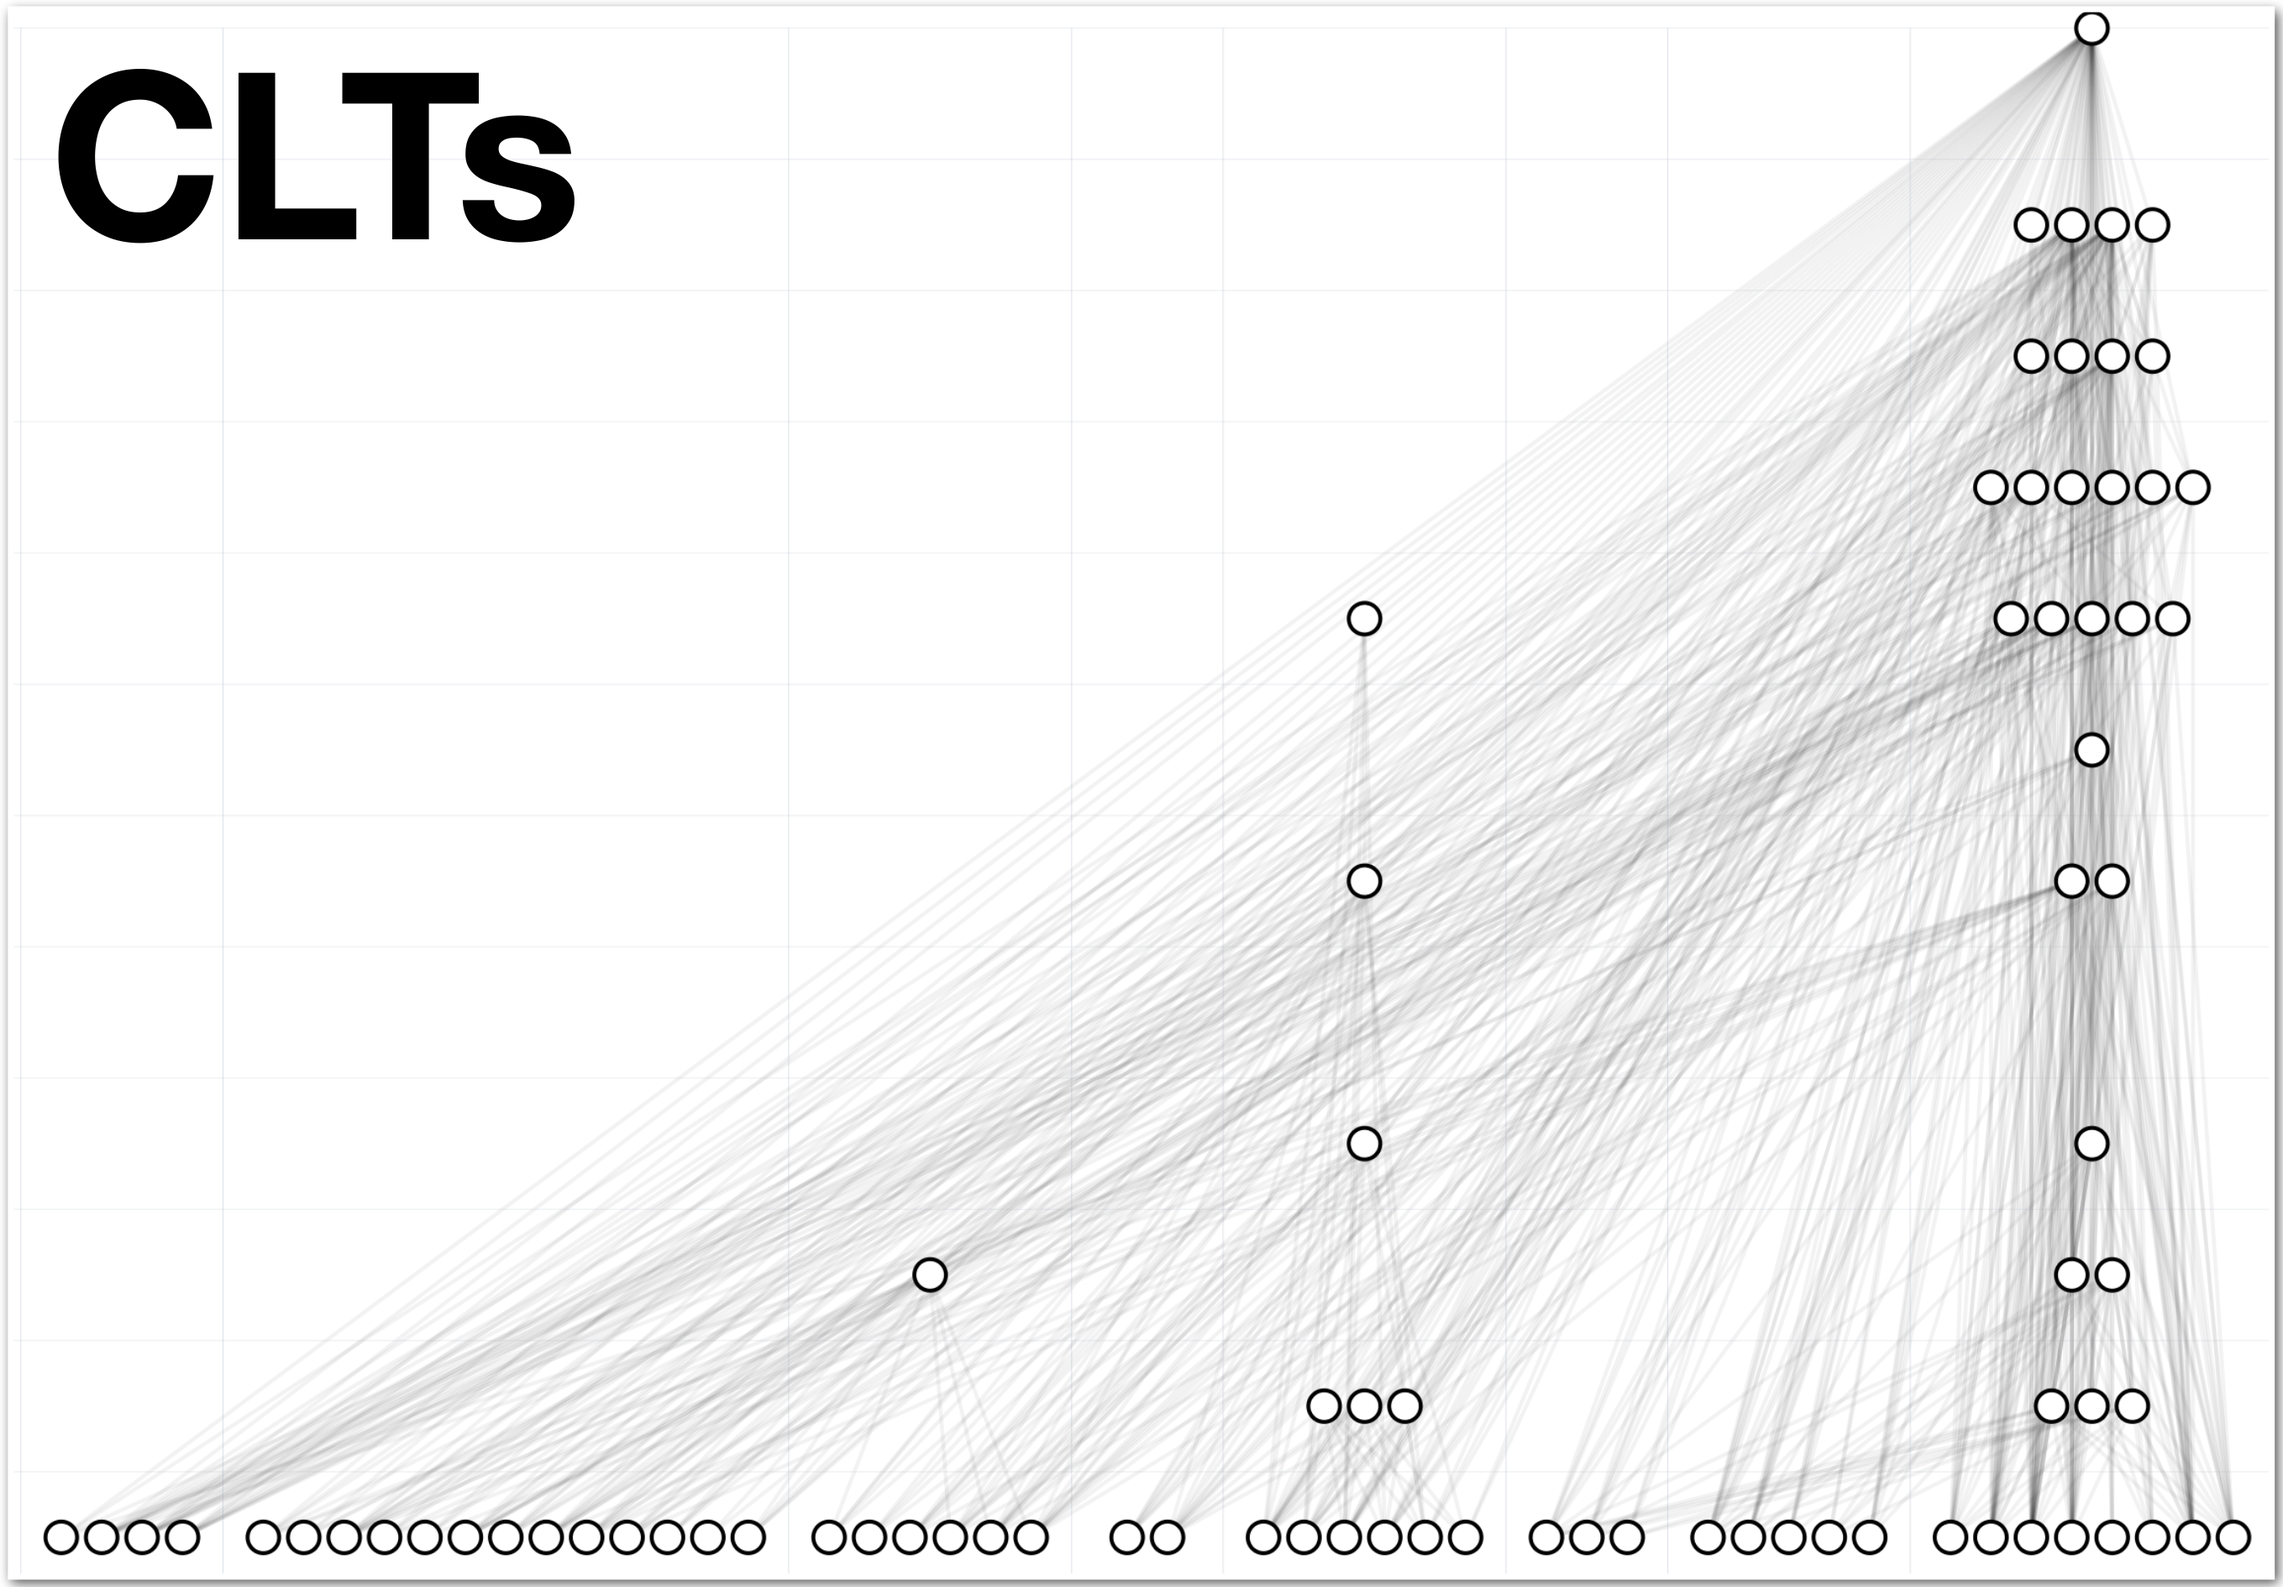
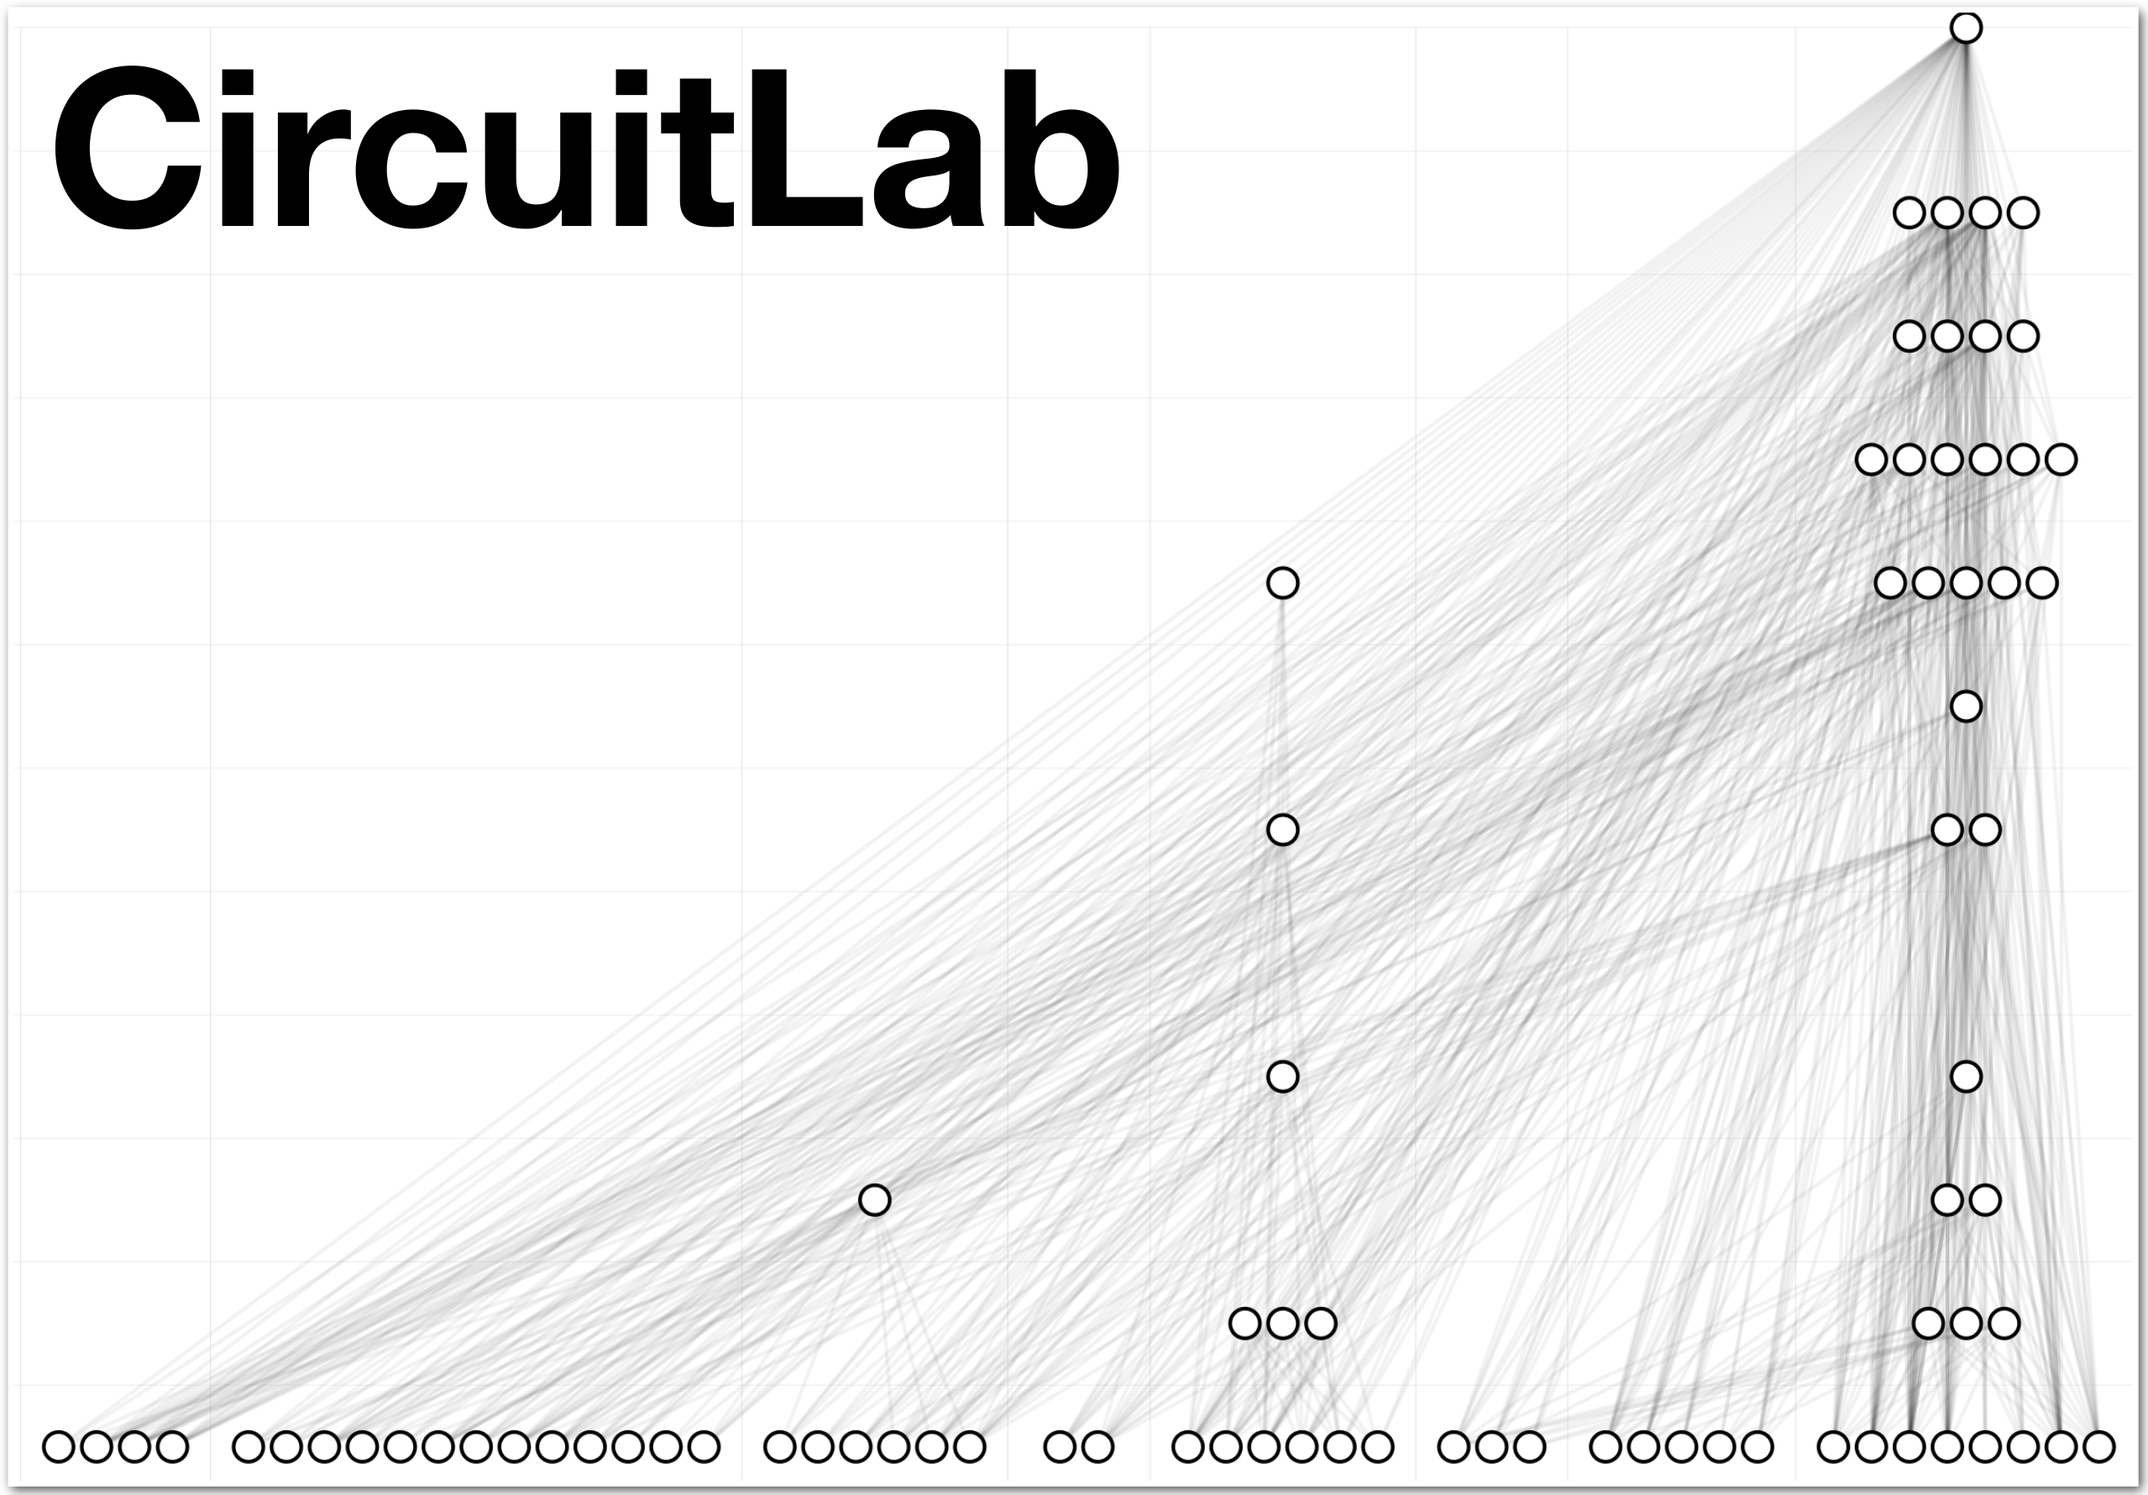
picture

diff --git a/src/circuitlab/config/clt_training_runner_config.py b/src/circuitlab/config/clt_training_runner_config.py
@@ -106,7 +106,7 @@ class CLTTrainingRunnerConfig(BaseModel):
     def validate_ddp_fsdp_sharding(cls, values: Dict[str, Any]) -> Dict[str, Any]:
         distributed_setup = values.get("distributed_setup")
 
-        valid_setups = {"None", "ddp", "fsdp", "feature_sharding"}
+        valid_setups = {None, "None", "ddp", "fsdp", "feature_sharding"}
         if distributed_setup not in valid_setups:
             raise ValueError(
                 "distributed_setup must be one of {'None', 'ddp', 'fsdp', 'feature_sharding'}"

diff --git a/README.md b/README.md
@@ -7,7 +7,7 @@
 [![Poetry](https://img.shields.io/badge/packaging-poetry-cyan)]()
 [![License: MIT](https://img.shields.io/badge/License-MIT-yellow.svg)](https://opensource.org/licenses/MIT)
 
-**CLT** is a Python library for training Cross-Layer Transcoders (CLTs) at scale. We believe that a major limitation in the development of CLTs, and more broadly attribution graph methods, is the significant engineering effort required to train, analyze, and iterate on them. This library aims to reduce that overhead by providing a clean, scalable, and extensible framework.
+**CircuitLab** is a Python library for training Cross-Layer Transcoders (CLTs) at scale. We believe that a major limitation in the development of CLTs, and more broadly attribution graph methods, is the significant engineering effort required to train, analyze, and iterate on them. This library aims to reduce that overhead by providing a clean, scalable, and extensible framework.
 
 ## Features
 
